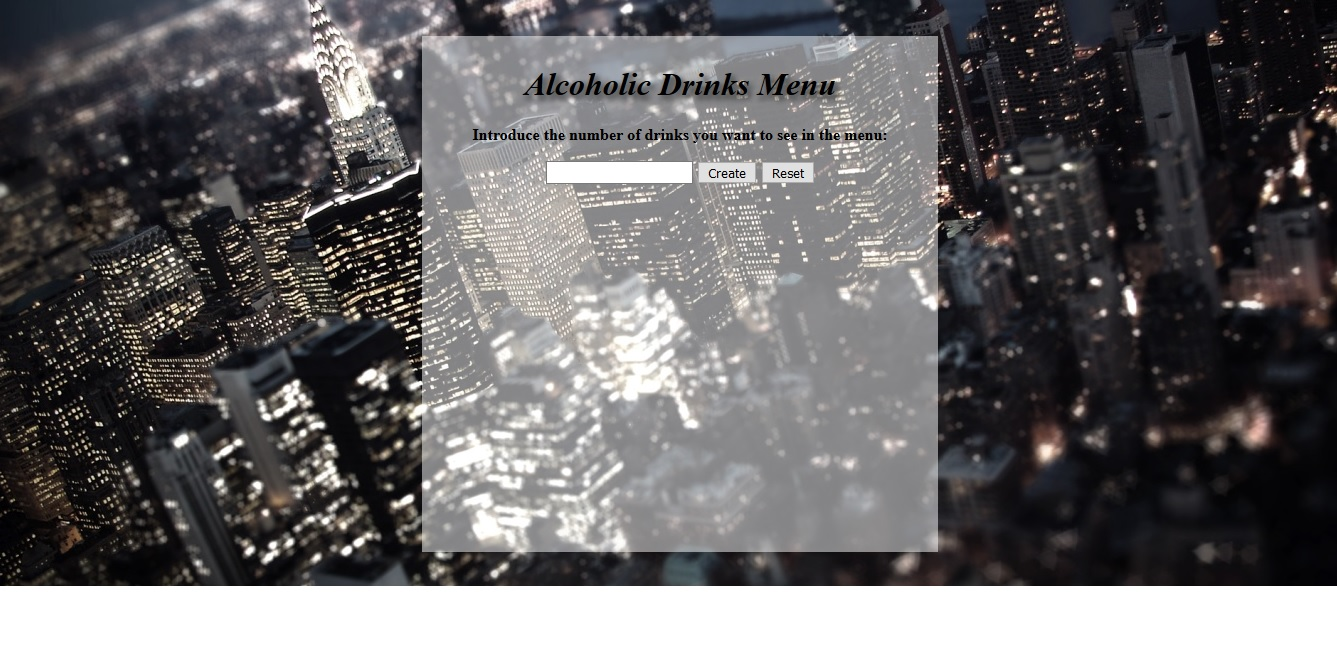
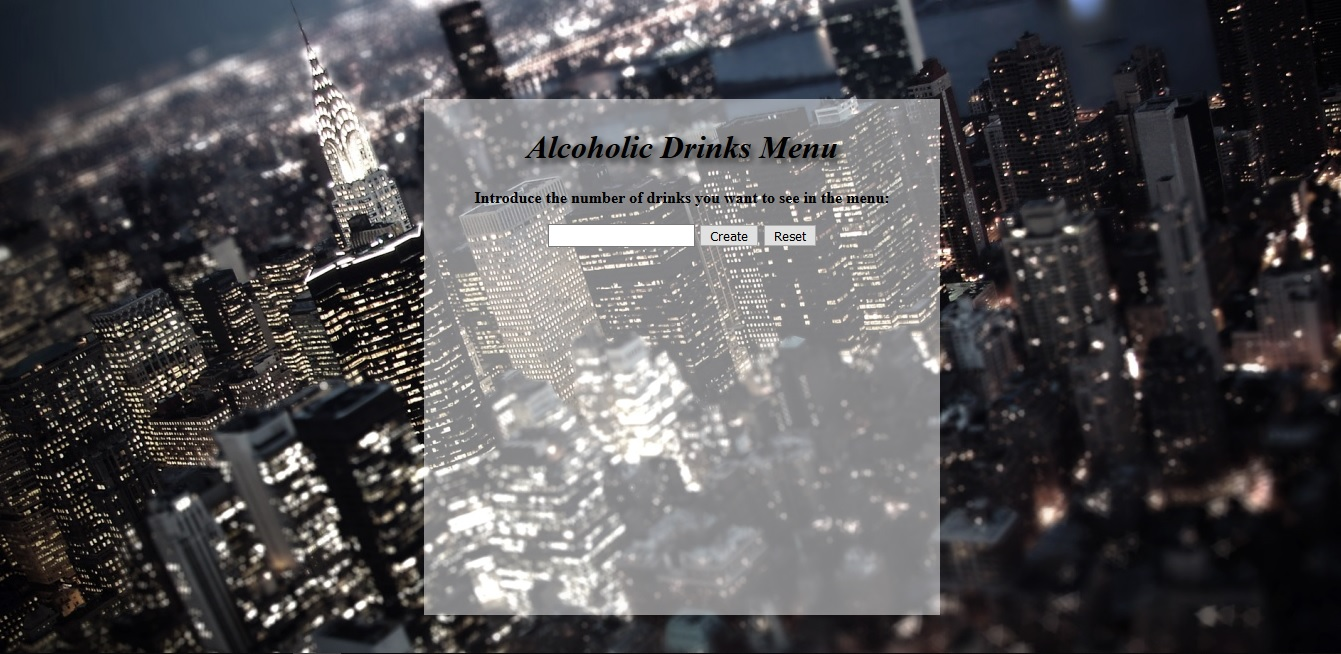
asd

diff --git a/Online-Cv/pages/Personal.html b/Online-Cv/pages/Personal.html
@@ -53,57 +53,74 @@
 					<div class="carousel-item active">
 						<img class="d-block w-100" src="../img/sample1.jpg" alt="sample1">
 						<div class="carousel-caption">
-						<h3>HTML Layout</h3>
-						<a href="https://github.com/SzaszNorbert/cursuri-front-end-4/tree/master/curs5-6" target="_blank">Actual source</a>
+							<div class="inner-content">
+							<h3>HTML Layout</h3>
+							<a href="https://github.com/SzaszNorbert/cursuri-front-end-4/tree/master/curs5-6" target="_blank">
+							<button>Source</button></a>
+							</div>
 						</div>
 					</div>
 					<div class="carousel-item">
 						<img class="d-block w-100" src="../img/sample2.jpg" alt="sample2">
 						<div class="carousel-caption">
-						<h3>My Blog</h3>
-						<a href="https://github.com/SzaszNorbert/cursuri-front-end-4/tree/master/tema-responsive" target="_blank">Actual source</a>
+						<div class="inner-content">
+							<h3>My Blog</h3>
+							<a href="https://github.com/SzaszNorbert/cursuri-front-end-4/tree/master/tema-responsive" target="_blank"><button>Source</button></a>
+						</div>
 						</div>
 					</div>
 					<div class="carousel-item">
 						<img class="d-block w-100" src="../img/sample3.jpg" alt="sample3">
 						<div class="carousel-caption">
-						<h3>Ajax call to database</h3>
-						<a href="https://github.com/SzaszNorbert/cursuri-front-end-4/tree/master/tema-ajax" target="_blank">Actual source</a>
+						<div class="inner-content">
+							<h3>Ajax call to database</h3>
+							<a href="https://github.com/SzaszNorbert/cursuri-front-end-4/tree/master/tema-ajax" target="_blank"><button>Source</button></a>
+						</div>
 						</div>
 					</div>
 					<div class="carousel-item">
 						<img class="d-block w-100" src="../img/sample4.jpg" alt="sample3">
 						<div class="carousel-caption">
-						<h3>Contact page through DOM manipulation</h3>
-						<a href="https://github.com/SzaszNorbert/cursuri-front-end-4/tree/master/tema-contactpage" target="_blank">Actual source</a>
+						<div class="inner-content">
+							<h3>Contact page through DOM manipulation</h3>
+							<a href="https://github.com/SzaszNorbert/cursuri-front-end-4/tree/master/tema-contactpage" target="_blank"><button>Source</button></a>
+						</div>
 						</div>
 					</div>
 					<div class="carousel-item">
 						<img class="d-block w-100" src="../img/sample5.jpg" alt="sample3">
 						<div class="carousel-caption">
-						<h3>Contact page throught DOM manpulation JQuery version</h3>
-						<a href="https://github.com/SzaszNorbert/cursuri-front-end-4/tree/master/tema-contactpage" target="_blank">Actual source</a>
+						<div class="inner-content">
+							<h3>Contact page throught DOM manpulation JQuery version</h3>
+							<a href="https://github.com/SzaszNorbert/cursuri-front-end-4/tree/master/tema-contactpage" target="_blank"><button>Source</button></a>
+						</div>
 						</div>
 					</div>
 					<div class="carousel-item">
 						<img class="d-block w-100" src="../img/sample6.jpg" alt="sample3">
 						<div class="carousel-caption">
-						<h3>A more complex project using Ajax,OOP,Functions...</h3>
-						<a href="https://github.com/SzaszNorbert/cursuri-front-end-4/tree/master/tema-oop" target="_blank">Actual source</a>
+						<div class="inner-content">
+							<h3>A more complex project using Ajax,OOP,Functions...</h3>
+							<a href="https://github.com/SzaszNorbert/cursuri-front-end-4/tree/master/tema-oop" target="_blank"><button>Source</button></a>
+						</div>
 						</div>
 					</div>
 					<div class="carousel-item">
 						<img class="d-block w-100" src="../img/sample7.jpg" alt="sample3">
 						<div class="carousel-caption">
-						<h3>Ajax and Promise combination</h3>
-						<a href="https://github.com/SzaszNorbert/cursuri-front-end-4/tree/master/tema-responsive" target="_blank">Actual source</a>
+						<div class="inner-content">
+							<h3>Ajax and Promise combination</h3>
+							<a href="https://github.com/SzaszNorbert/cursuri-front-end-4/tree/master/tema-responsive" target="_blank"><button>Source</button></a>
+						</div>
 						</div>
 					</div>
 					<div class="carousel-item">
 						<img class="d-block w-100" src="../img/sample8.jpg" alt="sample3">
 						<div class="carousel-caption">
-						<h3>Simple use of CSS</h3>
-						<a href="https://github.com/SzaszNorbert/cursuri-front-end-4/tree/master/curs3-CSS-Intro" target="_blank">Actual source</a>
+						<div class="inner-content">
+							<h3>Simple use of CSS</h3>
+							<a href="https://github.com/SzaszNorbert/cursuri-front-end-4/tree/master/curs3-CSS-Intro" target="_blank"><button>Source</button></a>
+						</div>
 						</div>
 					</div>
 				</div>

diff --git a/Online-Cv/css/style.css b/Online-Cv/css/style.css
@@ -1,5 +1,4 @@
 body {
-	background-color:lightblue;
 	margin:0;
 	padding:0;
 	box-sizing:border-box;
@@ -32,8 +31,7 @@ header {
 .headcontainer h1{
 	font-family:arial;
 	font-style:italic;
-	text-shadow:2px 3px 4px gray,
-		2px 3px 4px darkgray;
+	color:black;
 }
 
 
@@ -200,14 +198,8 @@ nav {
 	width:100%;
 	text-align:center;
 	font-family:times new roman;
-	font-style:italic;
 	margin-top:0;
 	margin-bottom:0;
-}
-
-#intro-part h2::first-letter{
-	font-size:45px;
-	color:red;
 }
 
 #slider{
@@ -219,11 +211,33 @@ nav {
 .carousel-item img{
 	max-width:100%;
 	height:auto;
-	opacity: 0.8;
+}
+
+.carousel-indicators li {
+	background-color:rgb(184,142,32);
+	width:15px;
+	height:15px;
+	border-radius:50%;
+}
+
+.carousel-indicators .active {
+	background-color:rgb(234,192,82);
+	width:15px;
+	height:15px;
+	border-radius:50%;
+}
+
+.carousel-caption .inner-content{
+	width:60%;
+	margin:0 auto;
+	margin-bottom:5%;
+	overflow:hidden;
+	background-color:rgb(62,65,68);
+	opacity:0.9;
 }
 
 .carousel-caption h3{
-	color:black;
+	color:white;
 	font-family:times new roman;
 	font-weight:bold;
 }
@@ -235,6 +249,14 @@ nav {
 	font-weight:bold;
 	font-style:italic;
 	font-size:25px;
+}
+
+.carousel-caption button{
+	background-color:rgb(194,152,42);
+	border:none;
+	color:white;
+	text-align:center;
+	margin-bottom:1%;
 }
 
 
